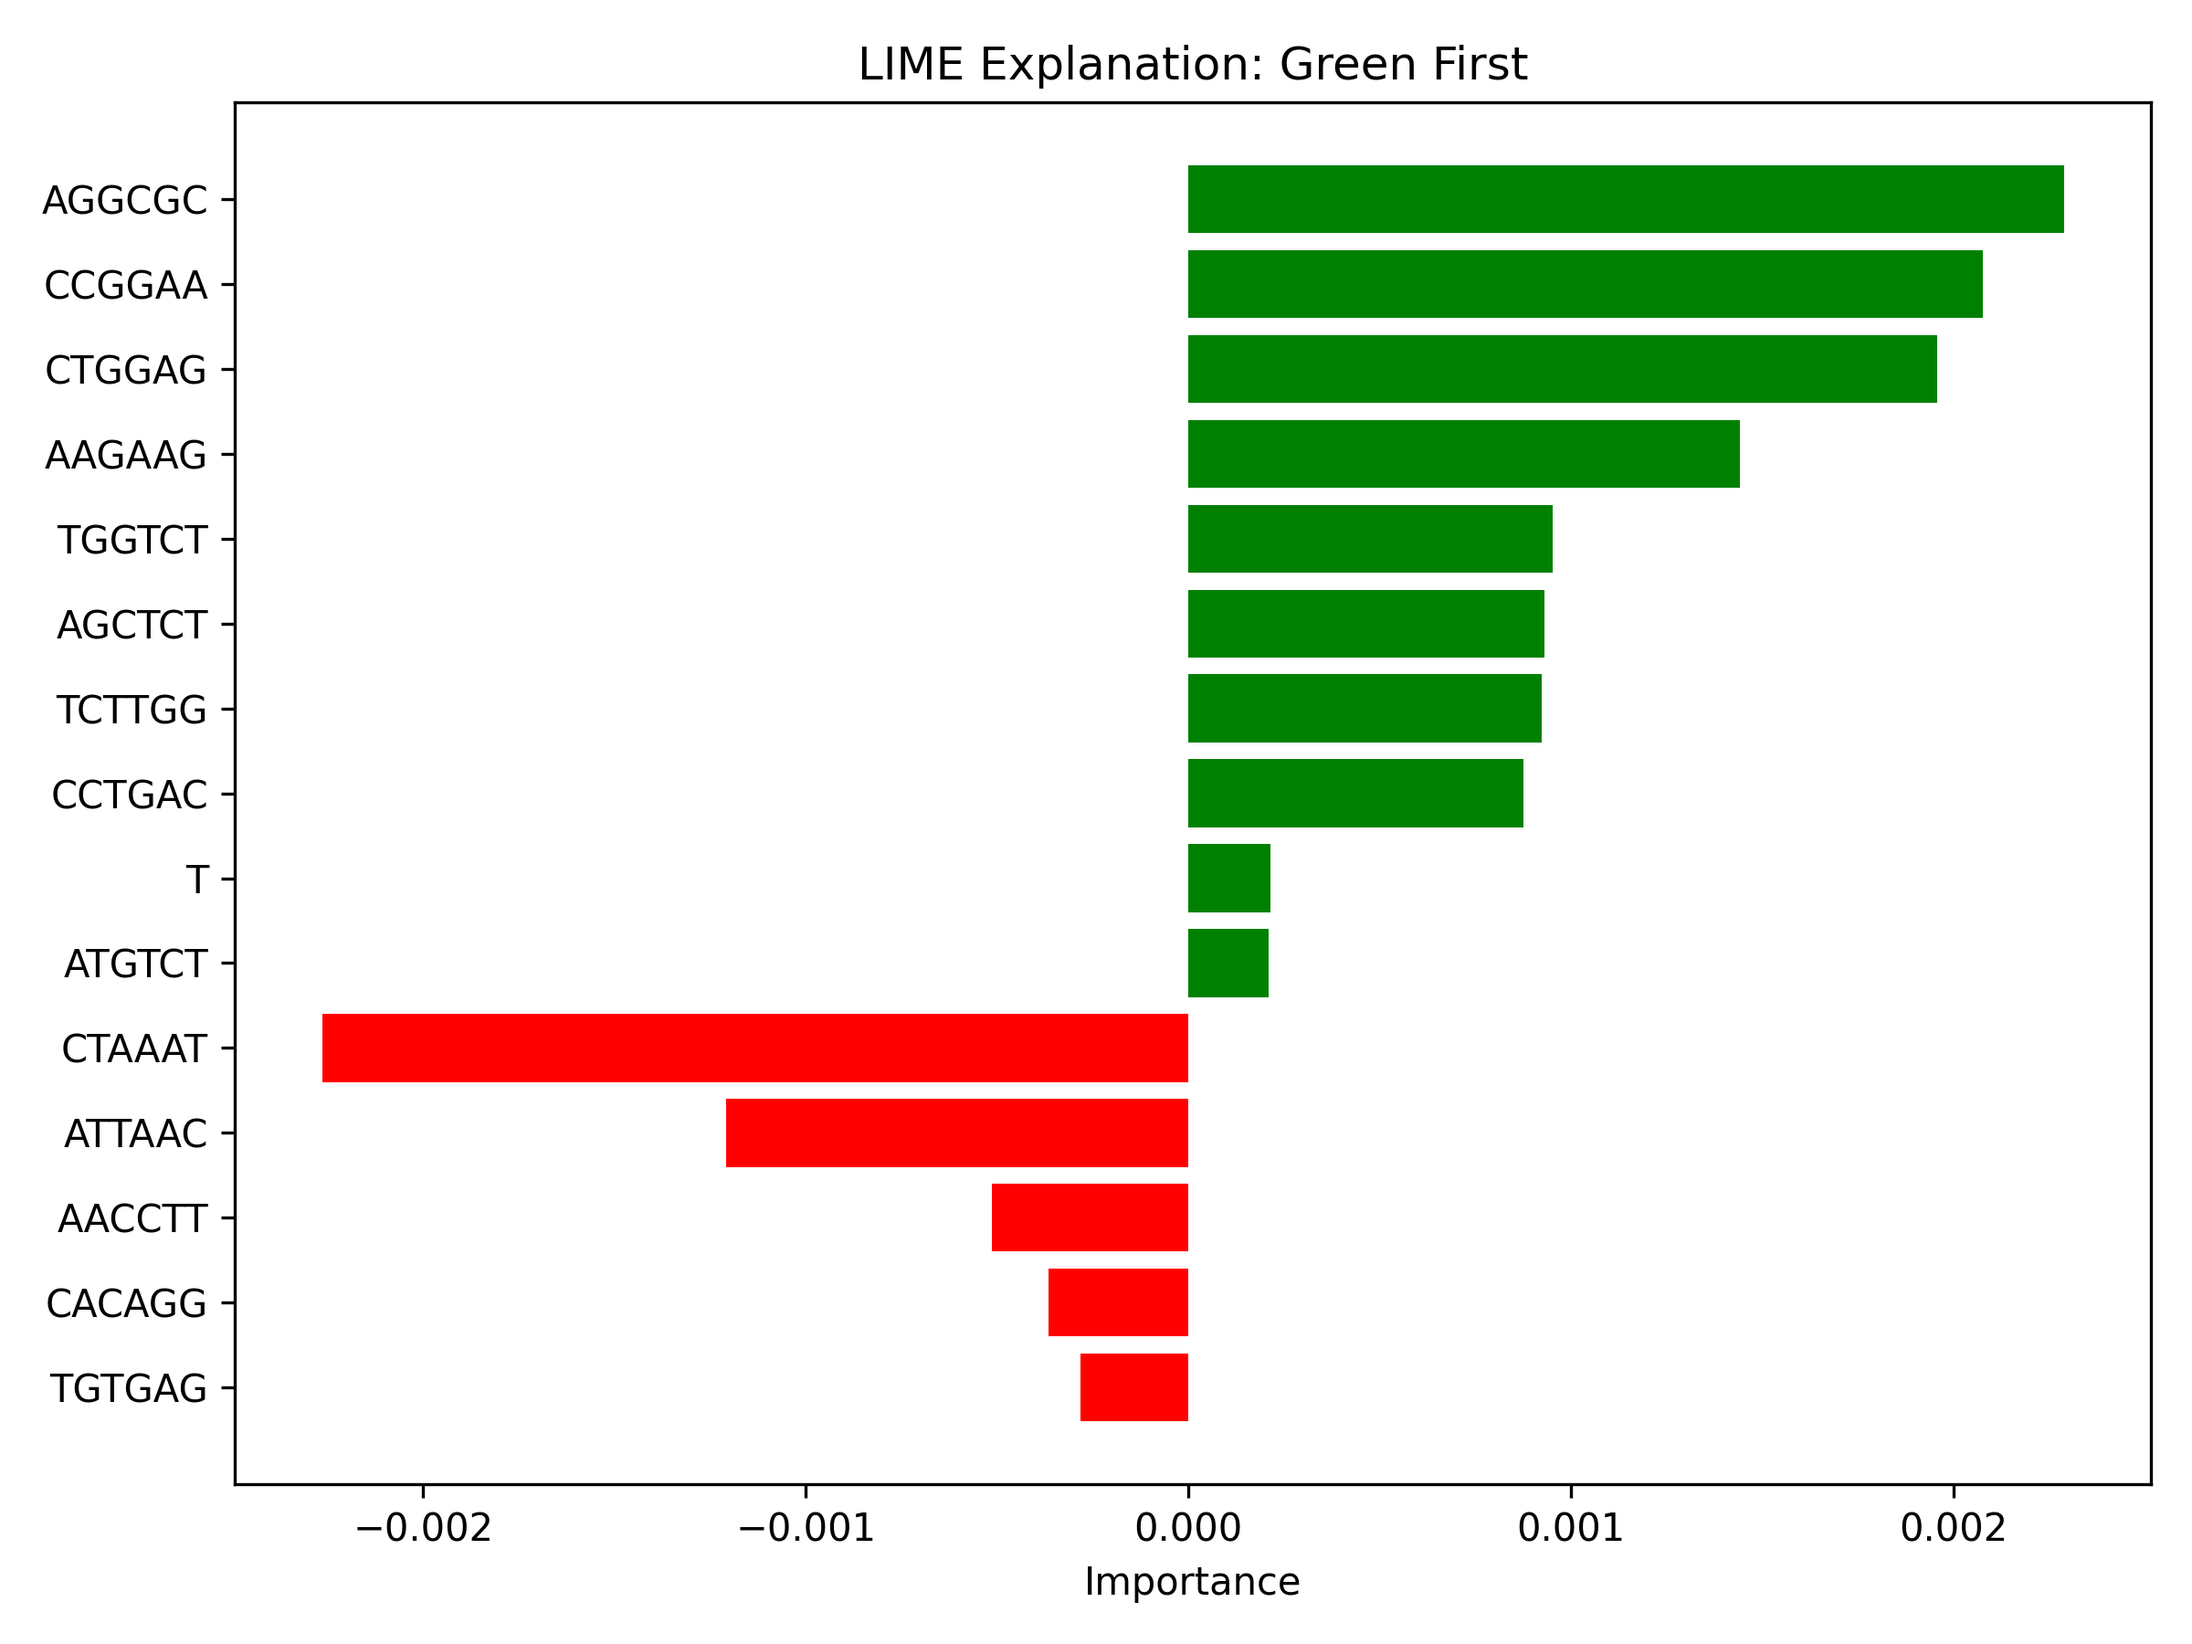
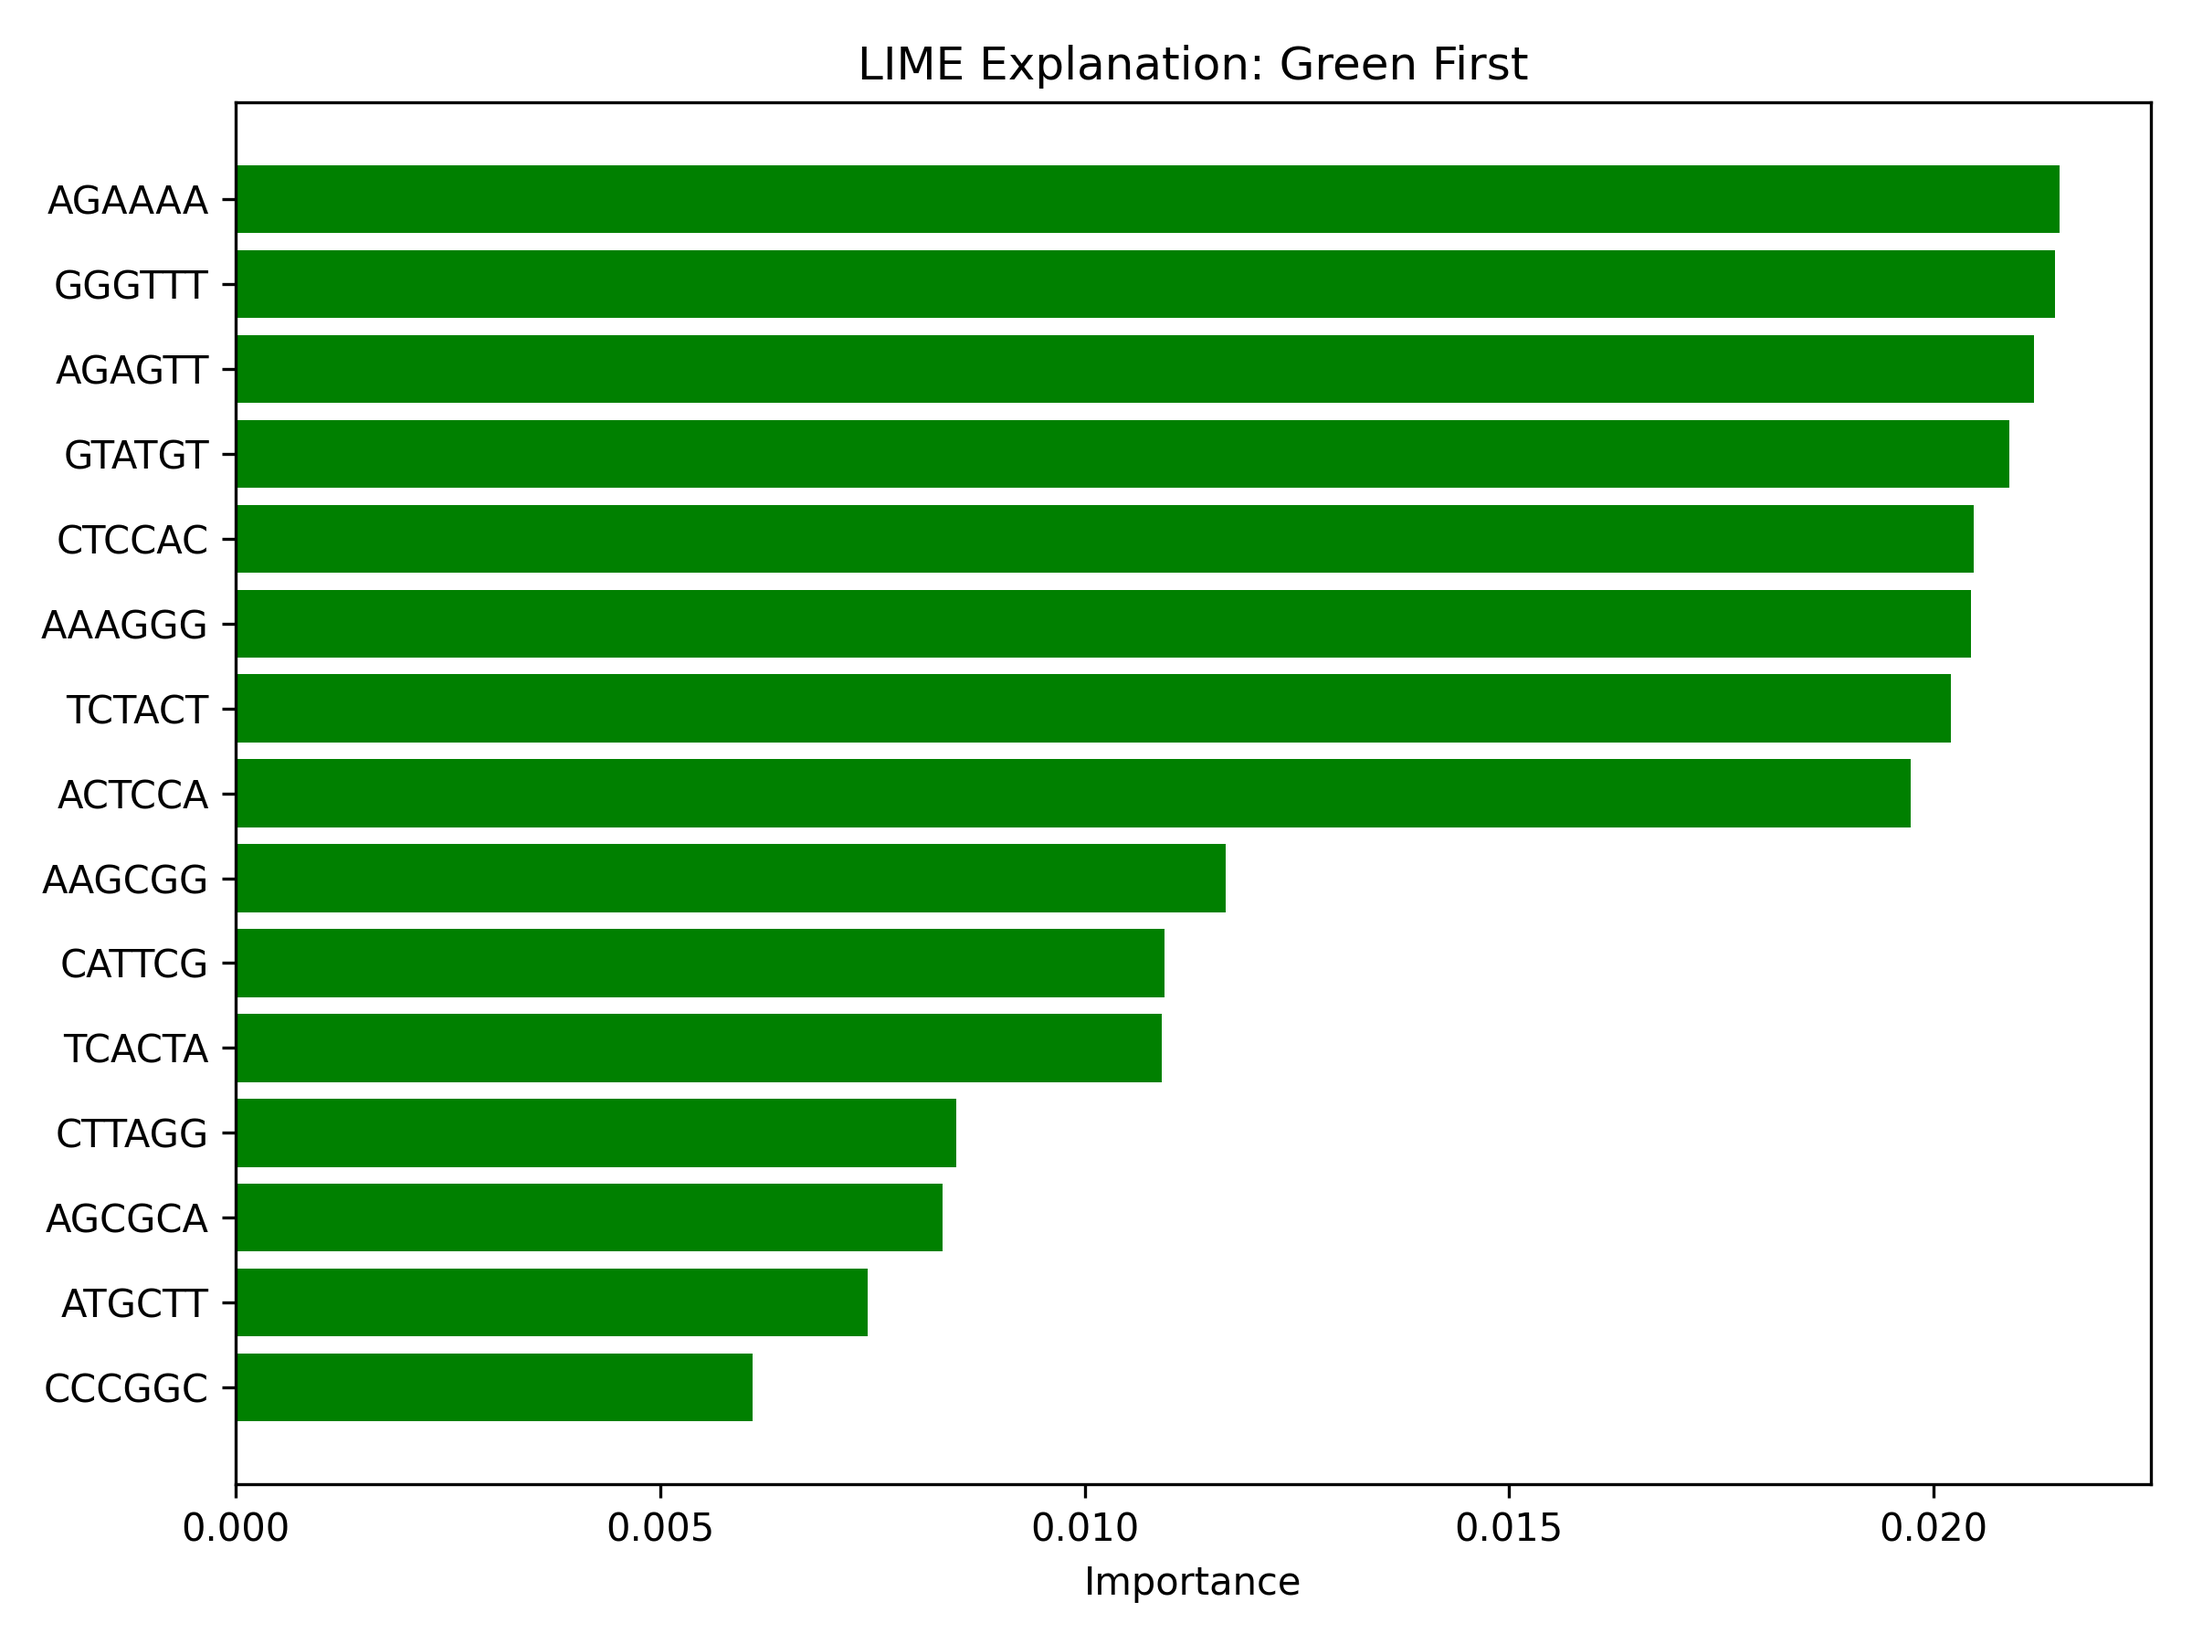
added modified code

diff --git a/lime/main.py b/lime/main.py
@@ -1,3 +1,5 @@
+import os
+import logging
 from transformers import AutoTokenizer, AutoModelForSequenceClassification
 import torch, numpy as np
 from lime.lime_text import LimeTextExplainer
@@ -6,64 +8,65 @@ import matplotlib.pyplot as plt
 import pandas as pd
 import time
 
+# ------------------ SETUP LOGGER ------------------
+logging.basicConfig(
+    filename='lime_run.log',
+    level=logging.INFO,
+    format='%(asctime)s - %(levelname)s - %(message)s'
+)
+logger = logging.getLogger()
+
+os.environ["PYTORCH_CUDA_ALLOC_CONF"] = "expandable_segments:True"
 torch.cuda.empty_cache()
 
 start_time = time.time()
- 
-ckpt   = "/home/rouf/data/NMT"
-# device = torch.device("cuda" if torch.cuda.is_available() else "cpu")
-device = torch.device("cuda")
- 
-tokenizer = AutoTokenizer.from_pretrained(ckpt, trust_remote_code=True)
-model     = (AutoModelForSequenceClassification
-             .from_pretrained(ckpt, trust_remote_code=True)
-             .to(device)
-             .eval())
 
-def predict_proba(bpe_strings, batch_size=256):
+ckpt = "/home/ab823254/data/NMT"
+device = torch.device("cuda")
+
+tokenizer = AutoTokenizer.from_pretrained(ckpt, trust_remote_code=True)
+model = (AutoModelForSequenceClassification
+         .from_pretrained(ckpt, trust_remote_code=True)
+         .to(device)
+         .eval())
+
+def predict_proba(bpe_strings, batch_size=64):
     """LIME → probs on GPU, with a tqdm bar."""
     probs = []
-    for i in tqdm(range(0, len(bpe_strings), batch_size),
-                  desc="LIME batches", leave=False):
+    for i in tqdm(range(0, len(bpe_strings), batch_size), desc="LIME batches", leave=False):
         batch = bpe_strings[i:i+batch_size]
- 
+
         enc = tokenizer(batch,
                         padding=True,
                         truncation=True,
-                        add_special_tokens=True,   # CLS/SEP go back in
+                        add_special_tokens=True,
                         return_tensors="pt").to(device)
- 
+
         with torch.no_grad():
             logits = model(**enc).logits
             probs.append(torch.softmax(logits, dim=-1).cpu())
     return torch.cat(probs).numpy()
 
-
 raw_seq = ("CTGAAAGCTGAATACAGAAGGCATAGATGCTGCATCTTGAGTGTCCAGCTCTTCTGTGCTGGACATCAGGATGTATACACTTAACCTGGGAGGCTTAGAGTTGGGAAGAGAAGAGTTAGATCGAGGGCAAGGCTTCTGACTCCTCTCTGGGGAAAGAAGAATGGATACGTGTAGAGGTGCTATGTGCAAAAACAGCACCTCCACCTCTGCTACCCTCCCTGCAACACAACACACACACACACACACACACACGTACACACACACTCACTAAGGTCCTGCAAAGCCCGTGAAGAGACATACCACCTCTCCTTGCCAAAGGGTGTTCGGCCTTAAAATGCCATAAACAAAAACATATACAGAAATATTTTCGCTACAAGGACCCAGATGTCTAAGCAGTTTAACAGAAAGCTTGGCACCCCTGGGTGGTCATGCATGCCAACCAGATTTCTCATGCTTTAAGAAGTCTATTTTTTAAAACAGGATTGACCAAACTAATGGGGTCTGCTCTGGATGGTGAAAATGTTTACTTTCATTTCCCCCCAACCCCCTCGCCTCCCCAGTTCCCCCTGAATATATTCTCAAGAAAGAGTATGTCTTTGGGTGGTTGCAAGTAGGAAGTTTCAAGGCTTTTCTCCCTAACGAATACCGAACACTGAGCACACAGGAGGGGAACAGAAACTTGGAAGCAGAGCAAAGGACCAAGTTATCCTCCTGTCTAACCCTGCTCAACAGGATCACCCTGAAGTGTGGCTCTGAAGATATTTGTGAACTCTGGCACAGCTGTTTGGCAGAATTAATACTAAAACCACAGGTCTTGCAAAAACAAAGAATCAAAAAAAAAAAAAAAAAGTGAAAACCAAACAGCAGGAGGAAACCCTTAGGAAAGCTCGGTGTCTTTCAGACATGAGATTTTCTTTCTCCCACTCTACTTGACTGGCCTGACCTGGGGTCCAGTCCCACTTCCTGGTGGCTGCGGAAATCCGCAGTGAGGCTCAGTGTGGATTTTGGCTTCAGAGGATTTGGGAAATTCCACCTTTCAATCTGAAATCTGGGGAAAGTCCCAGAAAACAACGGATTACTATATTTCTCTCATGAACCAGACTGAAGCAAGGAGTCAGGTCTAGGACCAAGGACCTCGGCACTCCAGGGAGCCCAGGGCCCCTCAGAAAGGTCTCGCTTGGCCACCGAGAGCGTGGGGCCGTAGCAGTTGGCAAGCGGGGGAGGGGGGTCACGCACAACTGCTCTGGAGCCACACTGCATAAATGGCATTCGTTTTTGTTTTCTGATTAGAAAAACGTTGAAAAGAATACCAAAGTACAGAGAAAACACACCCCCATCTCCAATGTTTCCTCATTTATGTAAATATTCTCATATTTTATAAAACAGGGAGGTGCTGTCTATAATTTTTGCAGGCTTTCCTTAGCATATGGTGAGCGTGTGCCAGGTGAGCAGGAGCAGCGGGGGATGACTTCCGATCCGACACCCCCAAAATCTCCTGGACAAAGCTGCTGTCTTTGCGGGATAAACAGAAAAGGGCCAGTCCCCACCTCACCCCCAGCCCGCCGCCCCGCAAGTACCTGGGGCTGGGGAGTCAGTGAACTCTCTTCAGCTGTTCGGCTCTCCCGGCTCAGAGCGAGGGGAATCGAGGAGACTGGGCGCAGGATGGGGGTGGACACCCGGCCGCTGCTCCTCCGCGCGGGTAAGTGTGAGCCCCGGGGTGCGGGGAACCGAGCCAGGGACCAGTGACCGCGAGCCGCCGATCCTCCCGCGCTCCCGCGCGCGCGGCCTGCCTTCCCACTGGCTGGCAGAGCACGTCCTCTCGCGCCCGGGGCCTTTGTAAAGAGCGCAGCGGTGGCGCGGAGGTTTTCAGGCTCCGCCCGCTCCACTCGCGCTCCCGCCCCTTCCTTCCTCTCGAGGTGACCCGGCAGCTGGCGCCTTTCTCACCAGGTACCCAGCCCCCTGGCCGCCTCTCTCAGTTCTCTGGCAGGGTTTGGTGCGCG")
  
-# Tokenise once with DNABERT‑2’s BPE, then join with spaces
 tokens = tokenizer.tokenize(raw_seq)
-lime_string = " ".join(tokens)          # e.g. 'C TAA AT ATTA ACT GG TCTT ...'
- 
+lime_string = " ".join(tokens)
+
 explainer = LimeTextExplainer(
-    split_expression=r"\s+",            # split on spaces
+    split_expression=r"\s+",
     bow=False,
     class_names=list(model.config.id2label.values())
 )
- 
+
 exp = explainer.explain_instance(
     lime_string,
     predict_proba,
     num_features=15,
-    num_samples=4000                    # ↑ for smoother importance curves
+    num_samples=4000
 )
 
-end_time = time.time()
-
-print(exp.as_list())
-
-# Get explanation as list
 lime_results = exp.as_list()
+logger.info(f"LIME explanation results: {lime_results}")
 
 # Convert to DataFrame
 df = pd.DataFrame(lime_results, columns=["Token", "Importance"])
@@ -73,17 +76,25 @@ df_sorted = pd.concat([
     df[df["Importance"] > 0].sort_values("Importance", ascending=False),
     df[df["Importance"] < 0].sort_values("Importance")
 ])
+
+# Save DataFrame
+csv_path = "lime_importance_sorted.csv"
+df_sorted.to_csv(csv_path, index=False)
+logger.info(f"✅ LIME sorted importance saved to: {csv_path}")
+
+# Plot and save figure
 plt.figure(figsize=(8, 6))
 colors = df_sorted["Importance"].apply(lambda x: "green" if x > 0 else "red")
 plt.barh(df_sorted["Token"], df_sorted["Importance"], color=colors)
 plt.title("LIME Explanation: Green First")
 plt.xlabel("Importance")
-plt.gca().invert_yaxis()  # So the top bar is the highest importance
+plt.gca().invert_yaxis()
 plt.tight_layout()
 
-# Save the figure
-plt.savefig("lime_explanation_custom_sorted.png", dpi=300)
+img_path = "lime_explanation_custom_sorted.png"
+plt.savefig(img_path, dpi=300)
 plt.close()
+logger.info(f"✅ Custom sorted LIME plot saved as: {img_path}")
 
-print("✅ Custom sorted LIME plot saved as 'lime_explanation_custom_sorted.png'")
-print(end_time - start_time)
+end_time = time.time()
+logger.info(f"🕒 Total runtime: {end_time - start_time:.2f} seconds")
